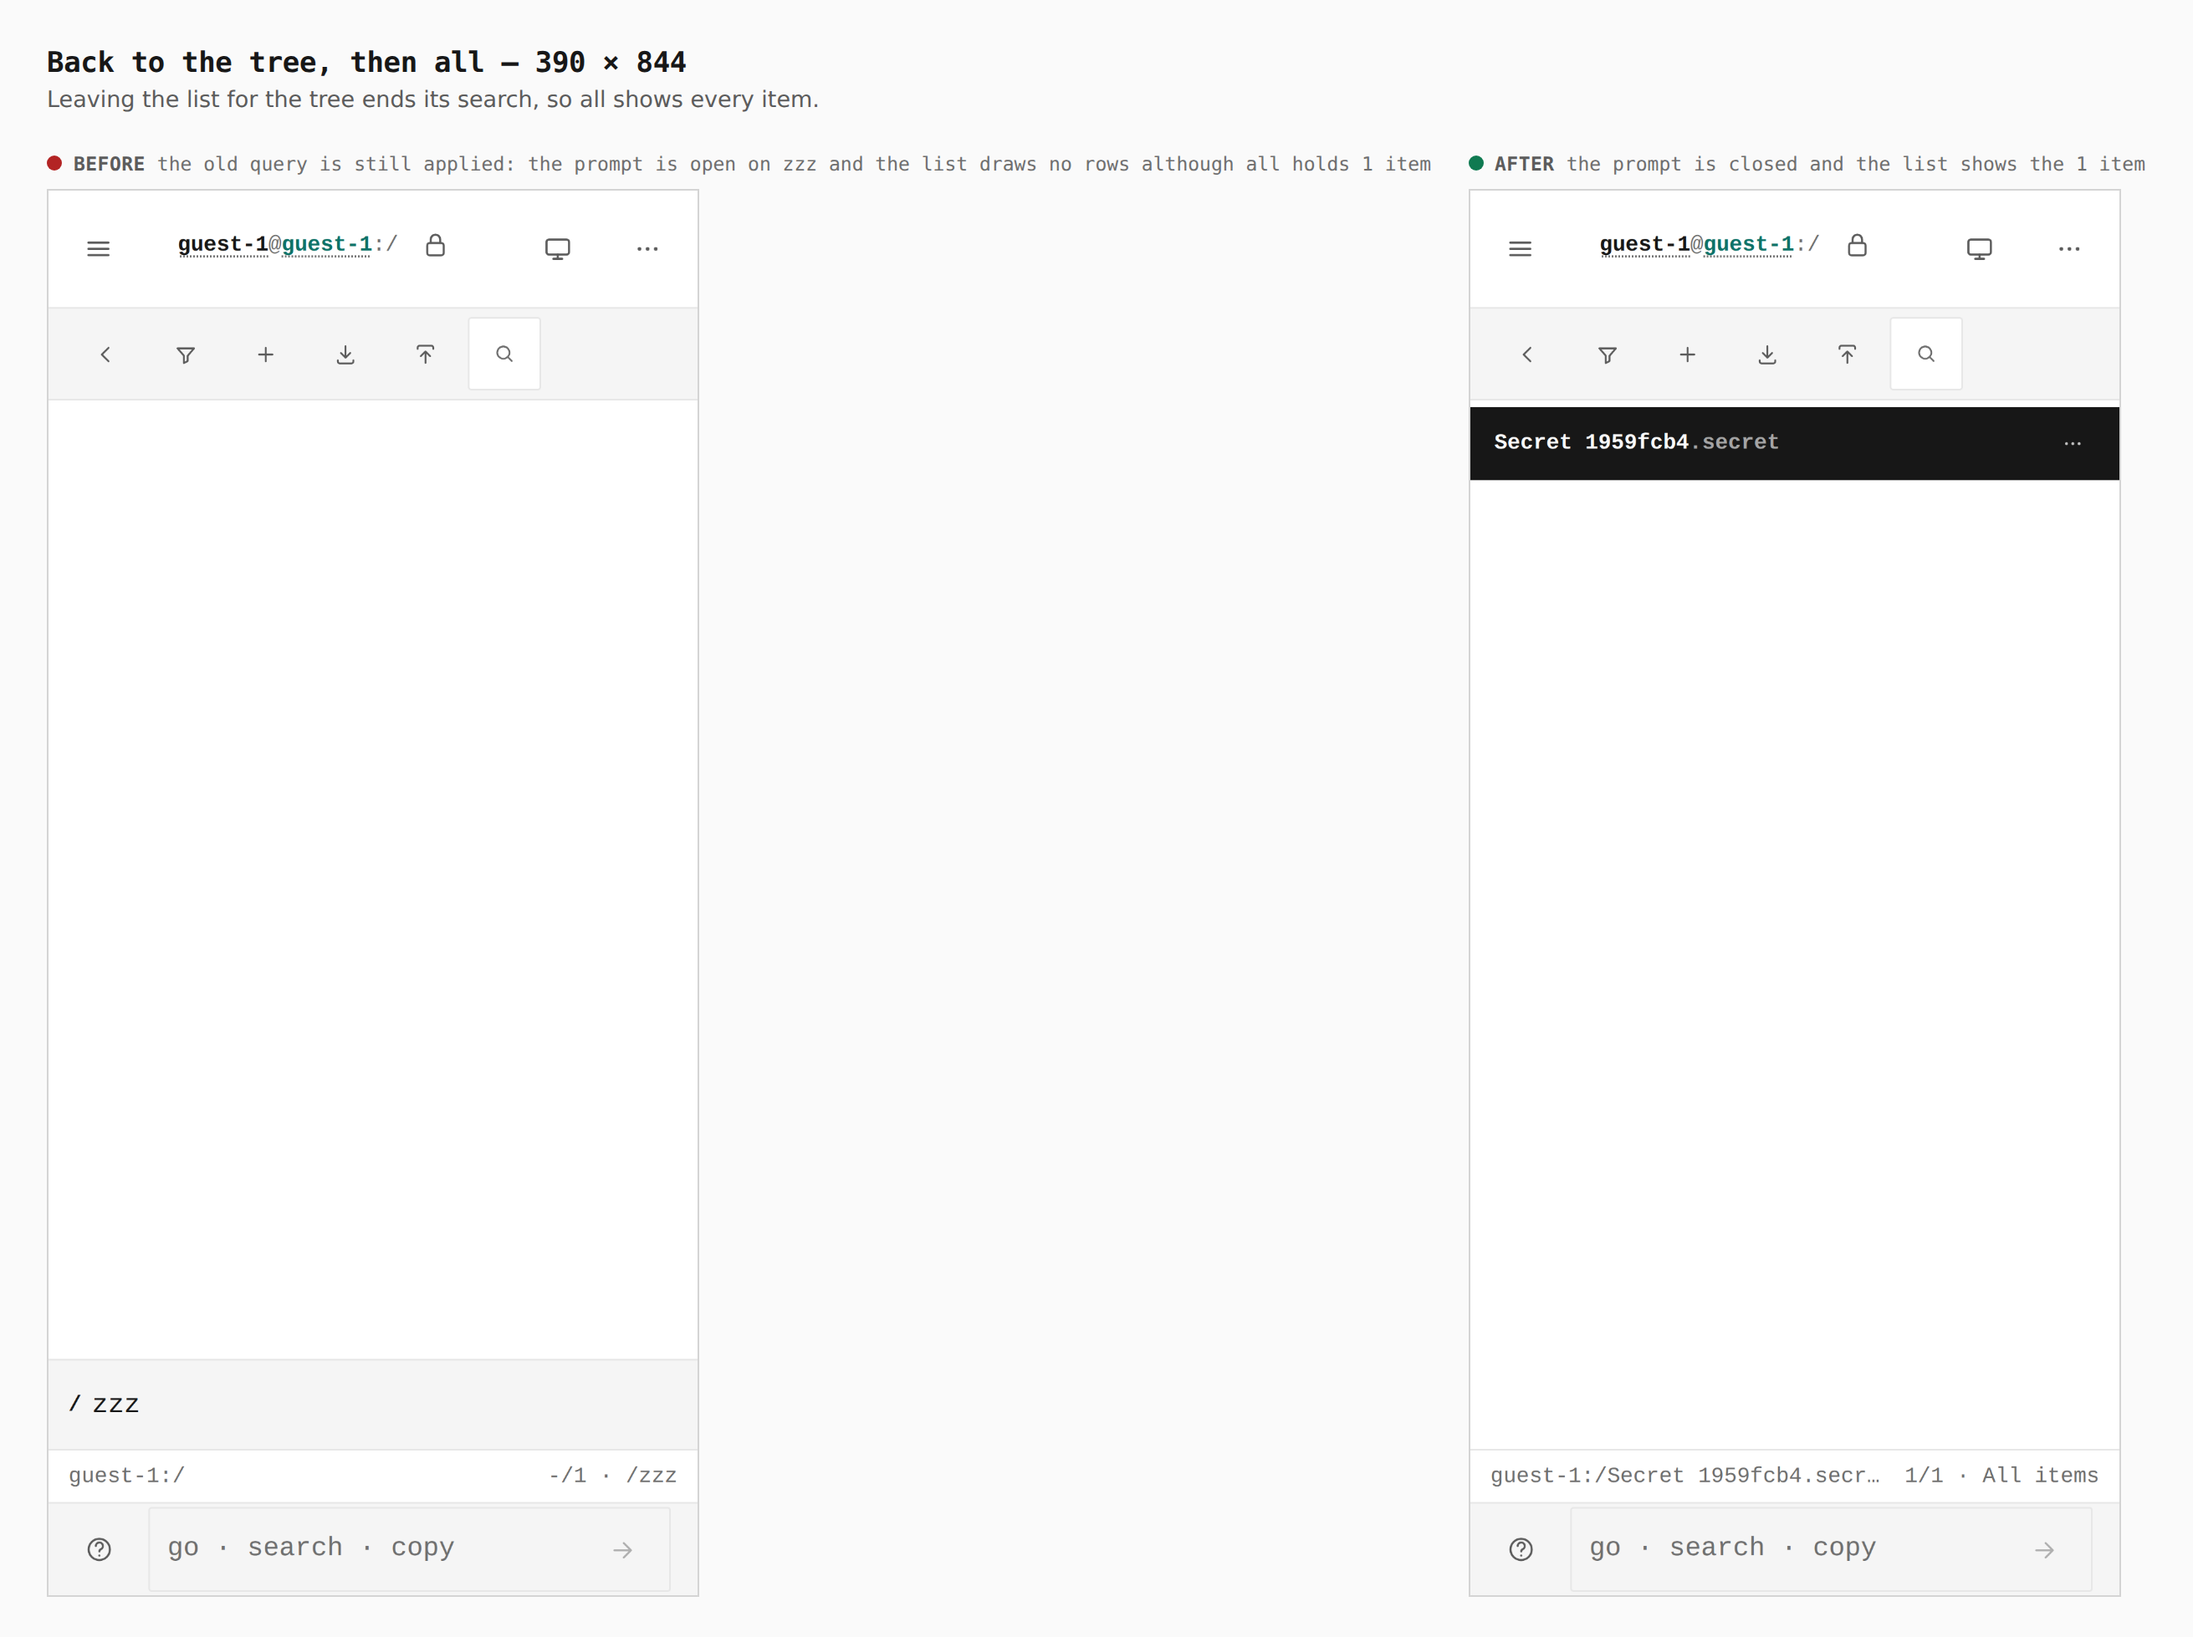
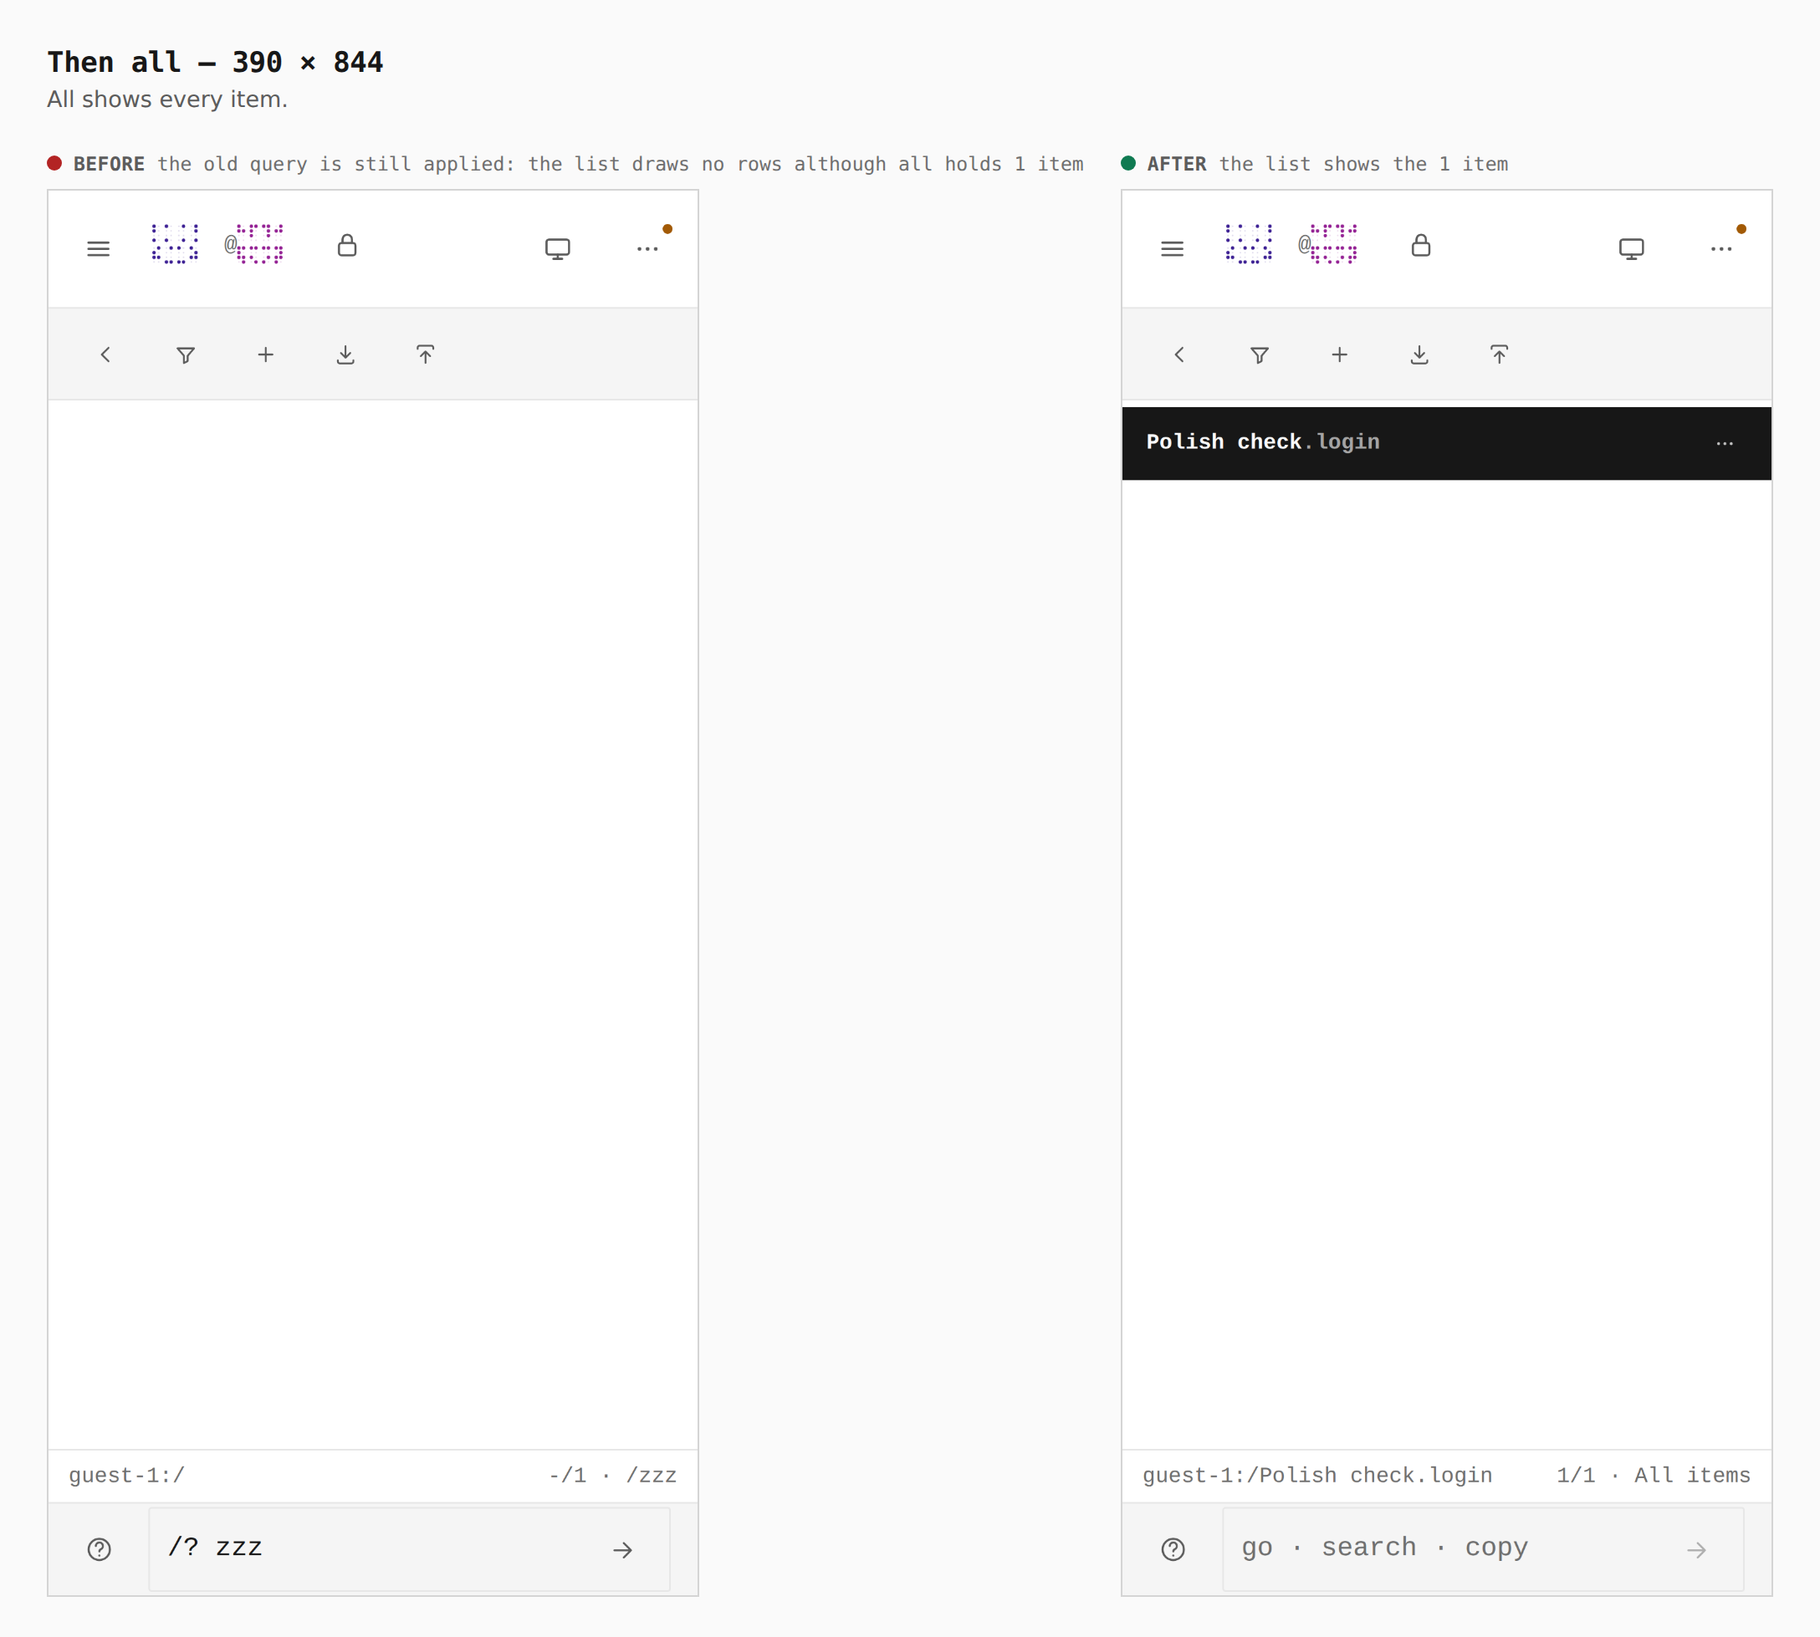
docs(evidence): redo the search-resets gallery on the status-line search
Claude-Session: https://claude.ai/code/session_01JAtUc1PRBnokEEQpgwS22U

diff --git a/docs/evidence/2026-10-04-phone-search-resets/README.md b/docs/evidence/2026-10-04-phone-search-resets/README.md
@@ -1,25 +1,29 @@
 # A phone's search ends when the tree comes back
 
-Before/after from two real builds — `main` (`49c9e43`) and this branch — same
-journey (`journey.json`), a touch context at 390 × 844. The vault holds one
-item; the walk searches from the tree for something no item matches, goes back
-to the tree and opens `all`.
+Before/after from two real builds — `main` (after the status-line search
+landed) and this branch — same journey (`journey.json`), a touch context at
+390 × 844. The vault holds one item; the walk searches the list for something
+no item matches (`/? zzz` in the status-line prompt), goes back to the tree and
+opens `all`.
 
-Measured in the browser: before, `all` opens with the prompt still open on
-`zzz` and **0 rows** although the vault holds 1 item (`-/1 · /zzz` in the
-status line). After, the prompt is closed and the list shows **1 row**
-(`1/1 · All items`). The phone gate (`verify:mobile`, `search-round-trip`
-stop) fails the unfixed build with `all shows its items again (0 rows)` at
-320, 390 and 430, and passes this branch.
+Measured in the browser: before, the tree draws with the prompt still holding
+`/? zzz`, and `all` opens on **0 rows** although the vault holds 1 item
+(`-/1 · /zzz` in the status line). After, the prompt is empty on the tree and
+the list shows **1 row** (`1/1 · All items`). The phone gate (`verify:mobile`,
+`search-round-trip` stop) holds both.
 
-## 1. Back to the tree, then all — 390
-
-![All after a search](390-all-after.png)
-
-## 2. The search itself — 390
+## 1. The search itself — 390
 
 ![Search typed](390-search-typed.png)
 
 Unchanged: a query that matches nothing draws no rows, as it should. An item
 opened from a search still comes back to that same search; only the tree ends
 it.
+
+## 2. Back to the tree — 390
+
+![Back to the tree](390-tree-after.png)
+
+## 3. Then all — 390
+
+![All after a search](390-all-after.png)
